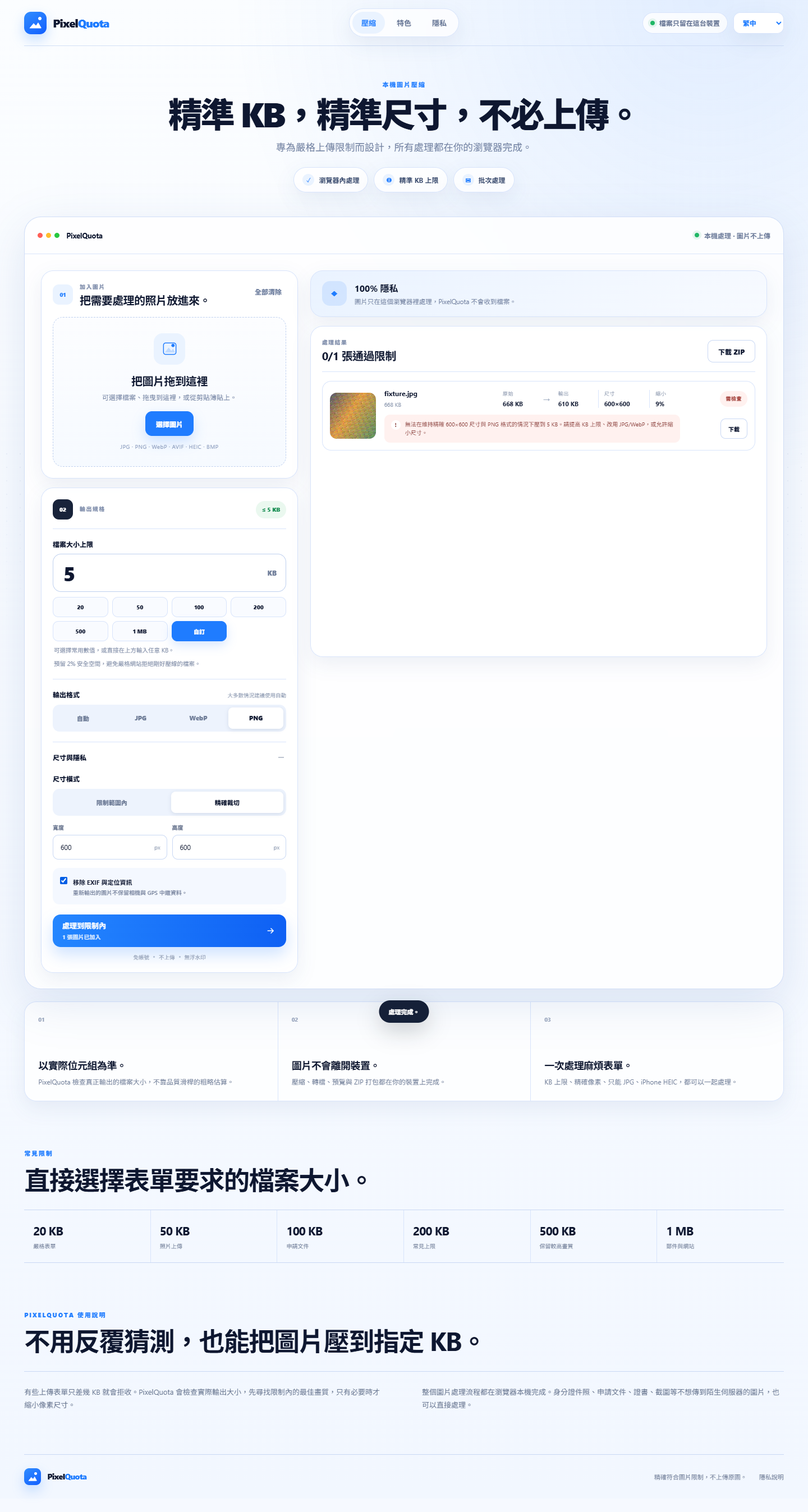
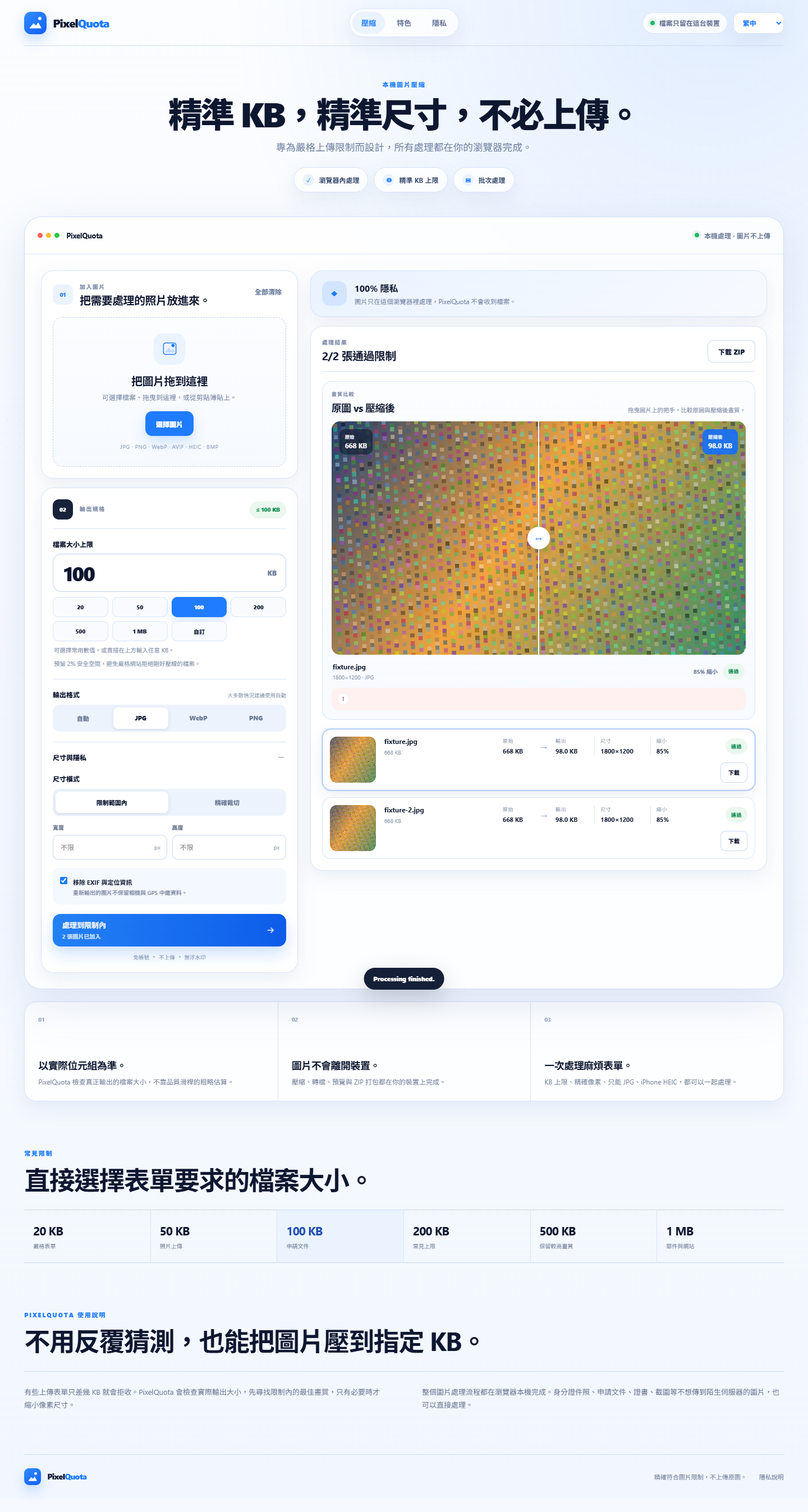
Add before-after comparison preview

diff --git a/src/app.css b/src/app.css
@@ -9,9 +9,12 @@
 .hero-section{text-align:center;padding:clamp(34px,4.3vw,70px) 0 clamp(26px,3vw,46px)}.eyebrow{font-size:11px;line-height:1.2;letter-spacing:.17em;font-weight:900;color:var(--blue);margin:0 0 14px}.hero-section h1{margin:0 auto;font-size:clamp(42px,4.25vw,76px);line-height:1;letter-spacing:-.058em;font-weight:820;white-space:nowrap;max-width:100%;text-wrap:nowrap}.hero-sub{max-width:900px;margin:16px auto 0;color:var(--muted);font-size:clamp(16px,1.22vw,21px);line-height:1.55;text-wrap:pretty}.hero-pills{display:flex;justify-content:center;gap:10px;flex-wrap:wrap;margin-top:22px}.hero-pills>span{display:inline-flex;align-items:center;gap:8px;padding:11px 15px;border:1px solid var(--line);background:rgba(255,255,255,.82);border-radius:999px;box-shadow:var(--shadow-soft);color:#334569}.hero-pills i{width:21px;height:21px;border-radius:50%;display:grid;place-items:center;background:var(--blue-soft);color:var(--blue);font-style:normal;font-size:11px;font-weight:900}.hero-pills b{font-size:12px;font-weight:750}
 .app-window{width:100%;max-width:2200px;margin:0 auto;border:1px solid rgba(207,220,247,.95);background:rgba(255,255,255,.82);border-radius:30px;box-shadow:var(--shadow);overflow:hidden;backdrop-filter:blur(16px)}.window-header{min-height:66px;padding:0 clamp(18px,1.6vw,30px);display:flex;align-items:center;justify-content:space-between;gap:18px;border-bottom:1px solid rgba(216,228,251,.95)}.window-brand{display:flex;align-items:center;gap:12px}.window-brand>strong{font-size:13px;letter-spacing:-.02em}.traffic{display:flex;gap:6px}.traffic i{width:9px;height:9px;border-radius:50%;display:block}.traffic i:nth-child(1){background:#ff5f57}.traffic i:nth-child(2){background:#ffbd2e}.traffic i:nth-child(3){background:#28c840}.window-security{display:flex;align-items:center;gap:9px;color:#6b7a99;font-size:12px;font-weight:700}.workbench{display:grid;grid-template-columns:minmax(390px,.72fr) minmax(0,1.28fr);gap:clamp(20px,1.5vw,32px);padding:clamp(20px,2vw,38px)}.controls-column,.results-panel{min-width:0}.controls-column{display:flex;flex-direction:column;gap:16px}.tool-card,.privacy-card,.empty-results,.results-section{background:rgba(255,255,255,.95);border:1px solid var(--line);border-radius:22px;box-shadow:var(--shadow-soft)}.tool-card{padding:20px}.pane-heading{display:flex;align-items:flex-start;justify-content:space-between;gap:16px}.pane-heading>div,.spec-topline>div{display:flex;align-items:center;gap:12px}.pane-heading p,.spec-topline p,.results-heading p{font-size:10px;font-weight:900;letter-spacing:.14em;color:#8290ad;margin:0 0 4px}.pane-heading h2,.results-heading h3{font-size:20px;letter-spacing:-.03em;margin:0;line-height:1.25;text-wrap:balance}.step-chip{width:36px;height:36px;border-radius:11px;background:var(--blue-soft);display:grid;place-items:center;font-size:10px;font-weight:900;color:var(--blue);flex:none}.step-chip.inverse{background:#18233a;color:#fff}.quiet-button{border:0;background:none;padding:8px;color:#6f7f9f;font-size:12px;font-weight:800;cursor:pointer}.drop-zone{position:relative;margin-top:18px;min-height:245px;border:1.5px dashed #bfd0ef;border-radius:18px;background:linear-gradient(180deg,#fcfdff,#f6faff);display:flex;flex-direction:column;align-items:center;justify-content:center;text-align:center;padding:28px 22px;cursor:pointer;outline:none;transition:.18s}.drop-zone:hover,.drop-zone:focus-visible,.drop-zone.dragging{border-color:#72a0ff;background:#f3f8ff;box-shadow:inset 0 0 0 1px rgba(31,124,255,.16)}.drop-visual{width:56px;height:56px;border-radius:16px;background:var(--blue-soft);display:grid;place-items:center;color:var(--blue);margin-bottom:14px}.drop-visual svg{width:31px;height:31px}.drop-zone>strong{font-size:20px;letter-spacing:-.03em}.drop-zone>span{margin-top:6px;font-size:12px;line-height:1.55;color:var(--muted);max-width:420px;text-wrap:pretty}.drop-zone>small{margin-top:12px;font-size:10px;letter-spacing:.04em;color:#91a1c1}.drop-actions{display:flex;gap:10px;margin-top:16px}.button{height:44px;border-radius:12px;padding:0 18px;display:inline-flex;align-items:center;justify-content:center;border:1px solid var(--line-strong);background:#fff;font-size:12px;font-weight:850;cursor:pointer;transition:.15s}.button:hover{transform:translateY(-1px)}.button.primary{background:var(--blue);border-color:var(--blue);color:#fff;box-shadow:0 10px 22px rgba(31,124,255,.2)}.button.secondary:hover{background:#f7faff}.button:disabled{opacity:.45;cursor:not-allowed;transform:none}.button.compact{height:40px;border-radius:10px}.spec-pane{position:static}.spec-topline{display:flex;align-items:center;justify-content:space-between;gap:12px;padding-bottom:16px;border-bottom:1px solid var(--line)}.gate-badge{height:31px;padding:0 11px;border-radius:999px;background:var(--green-soft);color:var(--green);display:inline-flex;align-items:center;font-size:10px;font-weight:900;white-space:nowrap}.target-control{padding:18px 0}.target-control>label,.section-label>span{display:block;font-size:12px;font-weight:800}.target-input{margin-top:9px;height:68px;border:1px solid #bed0ef;border-radius:15px;background:#fff;display:flex;align-items:center;padding:0 16px}.target-input input{width:100%;min-width:0;border:0;outline:none;background:transparent;font-size:36px;line-height:1;font-weight:800;letter-spacing:-.05em}.target-input span{font-size:12px;font-weight:900;color:#6f7d99}.preset-row{display:grid;grid-template-columns:repeat(4,minmax(0,1fr));gap:7px;margin-top:9px}.preset-row button{min-height:36px;border:1px solid var(--line);border-radius:10px;background:#f9fbff;font-size:10px;font-weight:850;cursor:pointer}.preset-row button.active{background:var(--blue);color:#fff;border-color:var(--blue);box-shadow:0 7px 18px rgba(31,124,255,.18)}.custom-hint,.helper{font-size:10.5px;line-height:1.55;color:#7d8aa5;margin:8px 2px 0;text-wrap:pretty}.spec-section{padding:18px 0;border-top:1px solid var(--line)}.section-label{display:flex;align-items:baseline;justify-content:space-between;gap:10px;margin-bottom:10px}.section-label small{font-size:9.5px;color:#8b98b0}.segment-grid{display:grid;grid-template-columns:repeat(4,minmax(0,1fr));gap:5px;padding:5px;background:#edf3fd;border-radius:12px}.segment-grid.two{grid-template-columns:1fr 1fr}.segment-grid button{min-height:38px;border:0;border-radius:8px;background:transparent;font-size:11px;font-weight:850;color:#6d7b96;cursor:pointer}.segment-grid button.active{background:#fff;color:var(--ink);box-shadow:0 2px 7px rgba(24,47,95,.12)}.advanced-settings{border-top:1px solid var(--line)}.advanced-settings summary{min-height:54px;display:flex;align-items:center;justify-content:space-between;list-style:none;cursor:pointer;font-size:12px;font-weight:850}.advanced-settings summary::-webkit-details-marker{display:none}.advanced-settings summary i{width:18px;height:18px;position:relative}.advanced-settings summary i:before,.advanced-settings summary i:after{content:"";position:absolute;background:#7b88a0;left:50%;top:50%;transform:translate(-50%,-50%)}.advanced-settings summary i:before{width:10px;height:1px}.advanced-settings summary i:after{width:1px;height:10px;transition:opacity .15s}.advanced-settings[open] summary i:after{opacity:0}.advanced-inner{padding:2px 0 18px}.dimension-grid{display:grid;grid-template-columns:1fr 1fr;gap:9px;margin-top:13px}.dimension-grid label>span{display:block;font-size:10px;font-weight:850;margin-bottom:6px;color:#6c7891}.dimension-grid label>div{height:44px;border:1px solid var(--line-strong);border-radius:10px;background:#fff;display:flex;align-items:center;padding:0 11px}.dimension-grid input{width:100%;min-width:0;border:0;outline:none;background:transparent;font-size:12px}.dimension-grid em{font-size:10px;color:#8b98af;font-style:normal}.check-row{margin-top:15px;padding:13px;border-radius:12px;background:#f4f8ff;display:flex;gap:10px;align-items:flex-start;cursor:pointer}.check-row input{margin:3px 0 0;accent-color:var(--blue)}.check-row b{font-size:11px}.check-row small{display:block;font-size:10px;line-height:1.5;color:#74809a;margin-top:3px;font-weight:500}.process-button{width:100%;min-height:58px;border:0;border-radius:14px;background:linear-gradient(90deg,#2486ff,#0e60f4);color:#fff;padding:0 17px;display:flex;align-items:center;justify-content:space-between;gap:12px;cursor:pointer;transition:.15s;box-shadow:0 14px 28px rgba(31,124,255,.22)}.process-button:hover:not(:disabled){filter:brightness(.96);transform:translateY(-1px)}.process-button:disabled{background:#dfe7f4;color:#8795ae;cursor:not-allowed;box-shadow:none}.process-button span{text-align:left}.process-button b{display:block;font-size:13px}.process-button small{display:block;margin-top:3px;font-size:10px;font-weight:650;opacity:.82}.process-button svg{width:20px;flex:none}.process-button.busy{animation:pulse 1.1s ease-in-out infinite}@keyframes pulse{50%{filter:brightness(.92)}}.spec-foot{margin-top:11px;display:flex;align-items:center;justify-content:center;gap:7px;font-size:9.5px;color:#8996ae}.spec-foot span:nth-child(even){width:3px;height:3px;border-radius:50%;background:#b1bfd4}
 .results-panel{display:flex;flex-direction:column;gap:16px}.privacy-card{display:grid;grid-template-columns:auto 1fr;gap:14px;align-items:center;padding:18px 20px;background:linear-gradient(135deg,#eaf3ff,#f7faff)}.privacy-icon{width:44px;height:44px;border-radius:14px;display:grid;place-items:center;background:rgba(31,124,255,.12);color:var(--blue);font-size:16px}.privacy-card h3{font-size:16px;margin:0 0 4px}.privacy-card p{font-size:11.5px;line-height:1.55;color:#6e7d9c;margin:0}.empty-results{min-height:590px;display:flex;flex-direction:column;align-items:center;justify-content:center;text-align:center;padding:34px;background:rgba(255,255,255,.84)}.empty-results[hidden]{display:none}.empty-ring{width:52px;height:52px;border:2px dashed #b9cdef;border-radius:50%;position:relative;margin-bottom:14px}.empty-ring:after{content:"";position:absolute;width:9px;height:9px;border-radius:50%;background:var(--blue);left:50%;top:50%;transform:translate(-50%,-50%);box-shadow:0 0 0 7px var(--blue-soft)}.empty-results h3{margin:0 0 7px;font-size:21px;letter-spacing:-.03em}.empty-results p{margin:0;max-width:360px;color:var(--muted);font-size:12px;line-height:1.6;text-wrap:pretty}.results-section{padding:20px;min-height:590px}.results-heading{display:flex;align-items:flex-end;justify-content:space-between;gap:16px;padding-bottom:16px;border-bottom:1px solid var(--line)}.result-list{display:grid;gap:12px;margin-top:16px}.result-card{min-height:108px;border:1px solid var(--line);border-radius:16px;background:#fff;display:grid;grid-template-columns:82px minmax(140px,.9fr) minmax(290px,1.45fr) 105px;grid-template-rows:auto auto;align-items:center;gap:11px 15px;padding:13px;transition:.15s}.result-card:hover{box-shadow:0 9px 25px rgba(31,63,126,.07)}.thumb{width:82px;height:82px;border-radius:12px;overflow:hidden;background:#eef4ff;display:grid;place-items:center;grid-row:1/3}.thumb img{width:100%;height:100%;object-fit:cover}.thumb.placeholder span{font-size:10px;font-weight:900;color:#7887a5}.thumb.error-thumb span{color:var(--red);font-size:18px}.result-info{min-width:0}.result-info strong{display:block;font-size:12px;white-space:nowrap;overflow:hidden;text-overflow:ellipsis}.result-info span{display:block;font-size:10px;color:#8592aa;margin-top:5px}.size-flow{display:grid;grid-template-columns:auto 18px auto auto auto;gap:10px;align-items:center}.size-flow>div span{display:block;font-size:9px;text-transform:uppercase;letter-spacing:.06em;color:#8e9ab0}.size-flow>div b{display:block;margin-top:4px;font-size:11px;white-space:nowrap}.size-flow>i{font-style:normal;color:#a1aec2}.dimension-note,.saving-note{padding-left:10px;border-left:1px solid var(--line)}.result-status{display:flex;flex-direction:column;align-items:flex-end}.status{height:28px;padding:0 10px;border-radius:999px;display:inline-flex;align-items:center;font-size:9px;font-weight:900;letter-spacing:.06em}.status.pending{background:#eef3fb;color:#6e7d99}.status.pass{background:var(--green-soft);color:var(--green)}.status.fail{background:var(--red-soft);color:#a13d37}.progress{width:82px;height:4px;background:#edf2fa;border-radius:999px;margin-top:8px;overflow:hidden}.progress i{display:block;height:100%;width:0;background:var(--blue);transition:width .2s}.result-reason{grid-column:2/4;grid-row:2;display:flex;align-items:flex-start;gap:8px;padding:10px 12px;border-radius:10px;background:var(--red-soft);color:#863a36;font-size:10px;line-height:1.5}.result-reason strong{flex:none;width:17px;height:17px;border-radius:50%;display:grid;place-items:center;background:#fff;font-size:10px}.result-action{grid-column:4;grid-row:2;justify-self:end}.result-action button{height:36px;padding:0 13px;border:1px solid var(--line-strong);border-radius:9px;background:#fff;font-size:10px;font-weight:850;cursor:pointer}
+.comparison-panel{margin-top:16px;padding:16px;border:1px solid var(--line);border-radius:18px;background:linear-gradient(180deg,#fbfdff,#f7faff)}.comparison-copy{display:flex;align-items:flex-end;justify-content:space-between;gap:18px;margin-bottom:12px}.comparison-copy p{font-size:9px;font-weight:900;letter-spacing:.14em;color:#8290ad;margin:0 0 4px}.comparison-copy h3{font-size:18px;letter-spacing:-.03em;margin:0}.comparison-copy>span{max-width:310px;color:#7b89a6;font-size:10.5px;line-height:1.5;text-align:right}.comparison-stage{--compare-position:50%;position:relative;aspect-ratio:16/9;max-height:430px;overflow:hidden;border-radius:15px;background:linear-gradient(135deg,#eaf2ff,#f8fbff);box-shadow:inset 0 0 0 1px rgba(190,208,239,.85)}.comparison-image{position:absolute;inset:0;width:100%;height:100%;object-fit:cover;display:block;pointer-events:none}.comparison-output-mask{position:absolute;inset:0;clip-path:inset(0 0 0 var(--compare-position));overflow:hidden}.comparison-output-mask .comparison-output{position:absolute;inset:0}.comparison-badge{position:absolute;z-index:4;top:14px;display:flex;flex-direction:column;gap:2px;padding:8px 10px;border-radius:10px;color:#fff;box-shadow:0 8px 22px rgba(20,42,88,.16);pointer-events:none}.comparison-badge span{font-size:8px;text-transform:uppercase;letter-spacing:.08em;font-weight:850;opacity:.86}.comparison-badge strong{font-size:12px}.original-badge{left:14px;background:rgba(22,34,58,.76)}.output-badge{right:14px;background:rgba(20,111,248,.9)}.comparison-divider{position:absolute;z-index:5;left:var(--compare-position);top:0;bottom:0;width:2px;background:#fff;box-shadow:0 0 0 1px rgba(25,66,130,.08);transform:translateX(-1px);pointer-events:none}.comparison-divider span{position:absolute;left:50%;top:50%;transform:translate(-50%,-50%);width:40px;height:40px;border-radius:50%;display:grid;place-items:center;background:#fff;color:var(--blue);font-size:15px;font-weight:900;box-shadow:0 7px 20px rgba(25,68,145,.22)}.comparison-range{position:absolute;z-index:6;inset:0;width:100%;height:100%;margin:0;opacity:0;cursor:ew-resize}.comparison-unavailable{position:absolute;z-index:7;left:50%;top:50%;transform:translate(-50%,-50%);max-width:70%;padding:12px 16px;border-radius:12px;background:rgba(255,255,255,.94);color:#687797;font-size:11px;text-align:center;box-shadow:var(--shadow-soft)}.comparison-meta{display:flex;align-items:center;justify-content:space-between;gap:16px;padding:13px 2px 0}.comparison-meta>div:first-child{min-width:0}.comparison-meta strong{display:block;max-width:520px;overflow:hidden;text-overflow:ellipsis;white-space:nowrap;font-size:12px}.comparison-meta>div:first-child span{display:block;margin-top:4px;color:#8592aa;font-size:10px}.comparison-stats{display:flex;align-items:center;gap:9px;color:#5e6f90;font-size:10px;font-weight:750}.comparison-failure{display:flex;align-items:flex-start;gap:8px;margin-top:12px;padding:11px 12px;border-radius:11px;background:var(--red-soft);color:#863a36;font-size:10px;line-height:1.55}.comparison-failure strong{flex:none;width:18px;height:18px;border-radius:50%;display:grid;place-items:center;background:#fff}.result-card{cursor:pointer}.result-card.selected{border-color:#8ab2ff;box-shadow:0 0 0 2px rgba(31,124,255,.10),0 9px 25px rgba(31,63,126,.08)}.result-card:focus-visible{outline:2px solid var(--blue);outline-offset:2px}
 .ad-slot{max-width:1800px;margin:20px auto 0;border:1px solid var(--line);border-radius:18px;min-height:92px;padding:14px 20px;background:#fff}.ad-slot>span{display:block;font-size:9px;letter-spacing:.14em;color:#9aa7bc;margin-bottom:8px}.sponsor-link{display:flex;min-height:48px;align-items:center;justify-content:center;color:var(--ink);font-weight:800;text-decoration:none}.trust-strip{max-width:1800px;margin:22px auto 0;display:grid;grid-template-columns:repeat(3,1fr);border:1px solid var(--line);border-radius:22px;background:rgba(255,255,255,.82);overflow:hidden;box-shadow:var(--shadow-soft)}.trust-strip article{min-height:176px;padding:24px;display:flex;flex-direction:column;justify-content:space-between}.trust-strip article+article{border-left:1px solid var(--line)}.trust-strip article>b{font-size:10px;color:#96a3ba}.trust-strip h3{font-size:18px;letter-spacing:-.03em;margin:28px 0 8px;text-wrap:balance}.trust-strip p{font-size:12px;line-height:1.65;color:#6d7b96;margin:0;text-wrap:pretty}.limit-section,.seo-copy{max-width:1800px;margin:86px auto 0}.limit-copy{max-width:1120px}.limit-copy h2,.seo-copy h2{font-size:clamp(34px,3.2vw,56px);line-height:1.06;letter-spacing:-.05em;margin:0;text-wrap:balance}.limit-links{display:grid;grid-template-columns:repeat(6,1fr);margin-top:28px;border-top:1px solid var(--line-strong);border-bottom:1px solid var(--line-strong)}.limit-links button{appearance:none;color:var(--ink);text-align:left;background:transparent;border:0;border-right:1px solid var(--line);padding:22px 16px;cursor:pointer;transition:background .15s}.limit-links button:last-child{border-right:0}.limit-links button:hover,.limit-links button:focus-visible{background:#fff;outline:none}.limit-links button.active{background:var(--blue-soft);color:#214fae}.limit-links strong{display:block;font-size:21px;letter-spacing:-.04em}.limit-links span{display:block;font-size:10px;color:#74819a;margin-top:6px}.seo-copy{padding-bottom:76px}.seo-columns{display:grid;grid-template-columns:1fr 1fr;gap:64px;margin-top:28px;padding-top:24px;border-top:1px solid var(--line-strong)}.seo-columns p{font-size:13px;line-height:1.8;color:#65738d;margin:0;text-wrap:pretty}html[lang="zh-TW"] .limit-copy h2,html[lang="zh-TW"] .seo-copy h2{letter-spacing:-.035em;line-height:1.12}footer{max-width:1800px;margin:0 auto 24px;padding:24px 0;border-top:1px solid var(--line-strong);display:flex;align-items:center;gap:22px;color:#74819a;font-size:11px}.footer-brand{margin-right:auto}.footer-brand .brand-name{font-size:14px}footer p{margin:0}footer nav{display:flex;gap:16px}footer a{color:inherit;text-decoration:none}.toast{position:fixed;left:50%;bottom:24px;z-index:100;transform:translate(-50%,18px);opacity:0;pointer-events:none;background:#152038;color:#fff;border-radius:999px;padding:12px 17px;font-size:11px;font-weight:850;box-shadow:0 14px 38px rgba(16,23,32,.2);transition:.2s;max-width:min(90vw,680px);text-align:center}.toast.show{opacity:1;transform:translate(-50%,0)}
 @media(max-width:1320px){.hero-section h1{font-size:clamp(40px,5vw,64px)}.workbench{grid-template-columns:minmax(350px,.84fr) minmax(0,1.16fr)}.local-badge{display:none}.result-card{grid-template-columns:74px minmax(0,1fr) 100px}.thumb{width:74px;height:74px}.size-flow{grid-column:2/4;grid-row:2;grid-template-columns:auto 18px auto auto auto}.result-status{grid-column:3;grid-row:1}.result-reason{grid-column:2/4;grid-row:3}.result-action{grid-column:2/4;grid-row:4;justify-self:stretch}.result-action button{width:100%}}
 @media(max-width:980px){.page-shell{padding:0 18px}.app-bar{grid-template-columns:1fr auto;height:74px}.top-nav{display:none}.header-tools{justify-self:end}.hero-section{padding:38px 0 30px}.hero-section h1{white-space:normal;text-wrap:balance;font-size:clamp(40px,7vw,60px);max-width:760px}.workbench{grid-template-columns:1fr}.empty-results,.results-section{min-height:420px}.trust-strip{grid-template-columns:1fr}.trust-strip article{min-height:142px}.trust-strip article+article{border-left:0;border-top:1px solid var(--line)}.limit-links{grid-template-columns:repeat(3,1fr)}.limit-links button:nth-child(3n){border-right:0}.limit-links button:nth-child(-n+3){border-bottom:1px solid var(--line)}}
+@media(max-width:980px){.comparison-stage{max-height:none}.comparison-copy>span{max-width:260px}}
 @media(max-width:700px){.page-shell{padding:0 14px}.app-bar{height:68px}.brand-name{font-size:17px}.brand-glyph{width:34px;height:34px}.hero-section{padding:32px 0 26px}.hero-section h1{font-size:42px;line-height:1.02}.hero-sub{font-size:15px}.hero-pills{gap:7px}.hero-pills>span{padding:9px 11px}.hero-pills b{font-size:10px}.window-header{min-height:58px}.window-security{display:none}.workbench{padding:14px;gap:14px}.tool-card{padding:16px;border-radius:18px}.pane-heading h2{font-size:18px}.drop-zone{min-height:225px;padding:24px 14px}.drop-zone>strong{font-size:19px}.drop-zone>span{font-size:11px}.button{height:46px}.target-input{height:64px}.target-input input{font-size:34px}.preset-row{grid-template-columns:repeat(2,1fr)}.preset-row button{min-height:40px;font-size:11px}.segment-grid button{min-height:40px;font-size:11px}.process-button{min-height:60px}.privacy-card{padding:16px}.empty-results,.results-section{min-height:360px}.results-section{padding:15px}.result-list{gap:12px}.result-card{grid-template-columns:62px minmax(0,1fr) auto;grid-template-rows:auto auto auto auto;gap:10px;padding:12px}.thumb{width:62px;height:62px;grid-row:1}.result-info{grid-column:2;grid-row:1}.result-status{grid-column:3;grid-row:1}.size-flow{grid-column:1/4;grid-row:2;grid-template-columns:1fr 15px 1fr;gap:7px;border-top:1px solid var(--line);padding-top:11px}.dimension-note,.saving-note{border:0;padding:0}.dimension-note{grid-column:1}.saving-note{grid-column:3}.result-reason{grid-column:1/4;grid-row:3}.result-action{grid-column:1/4;grid-row:4}.results-heading{align-items:flex-start}.limit-section,.seo-copy{margin-top:66px}.limit-links{grid-template-columns:repeat(2,1fr)}.limit-links button{padding:19px 12px}.limit-links button:nth-child(3n){border-right:1px solid var(--line)}.limit-links button:nth-child(2n){border-right:0}.limit-links button:nth-child(-n+4){border-bottom:1px solid var(--line)}.seo-copy{padding-bottom:52px}.seo-columns{grid-template-columns:1fr;gap:16px}.seo-columns p{font-size:12px}footer{margin-bottom:16px;padding:20px 0;flex-wrap:wrap;font-size:10px}.footer-brand{width:100%}footer nav{margin-left:auto}}
+@media(max-width:700px){.comparison-panel{padding:12px}.comparison-copy{align-items:flex-start;flex-direction:column;gap:5px}.comparison-copy>span{text-align:left;max-width:none}.comparison-stage{aspect-ratio:4/3}.comparison-badge{top:9px;padding:7px 8px}.original-badge{left:9px}.output-badge{right:9px}.comparison-divider span{width:36px;height:36px}.comparison-meta{align-items:flex-start;flex-direction:column}.comparison-stats{width:100%;justify-content:space-between}}
 @media(max-width:390px){.hero-section h1{font-size:37px}.tool-card{padding:14px}.pane-heading h2{font-size:17px}.section-label small{display:none}.spec-foot{gap:5px;font-size:9px}}
 @media(prefers-reduced-motion:reduce){*{scroll-behavior:auto!important;animation-duration:.01ms!important;transition-duration:.01ms!important}}

diff --git a/src/main.js b/src/main.js
@@ -7,7 +7,8 @@ const $ = id => document.getElementById(id);
 const state = {
   files:[], results:[], errors:[], previews:[], processKeys:[], resultOptions:[],
   locale:detectLocale(), busy:false, outputFormat:'auto', resizeMode:'limit',
-  customMode:false, pageMode:'default', pagePresetKb:null, lastSkipped:0
+  customMode:false, pageMode:'default', pagePresetKb:null, lastSkipped:0,
+  selectedIndex:null, selectionManual:false, comparePosition:50
 };
 const cfg = window.PIXELQUOTA_CONFIG || {};
 
@@ -112,28 +113,69 @@ function errorReason(error) {
   const message=String(error?.message||error||'');
   return /decode_failed|heic|decoder|image/i.test(message)?t('failDecode'):t('failUnknown');
 }
+function selectedClass(index) { return state.selectedIndex===index?' selected':''; }
+function updateComparisonPosition(value=state.comparePosition) {
+  state.comparePosition=Math.max(0,Math.min(100,Number(value)||0));
+  const stage=$('comparisonStage'); if(stage) stage.style.setProperty('--compare-position',`${state.comparePosition}%`);
+  const range=$('compareRange'); if(range&&Number(range.value)!==state.comparePosition) range.value=String(state.comparePosition);
+}
+function chooseDefaultResult() {
+  if(!state.files.length){state.selectedIndex=null;return;}
+  if(Number.isInteger(state.selectedIndex)&&state.selectedIndex>=0&&state.selectedIndex<state.files.length){
+    if(state.selectionManual||state.results[state.selectedIndex]?.metTarget)return;
+  }
+  const passed=state.results.findIndex(r=>r?.metTarget);
+  if(passed>=0){state.selectedIndex=passed;return;}
+  if(!Number.isInteger(state.selectedIndex)||state.selectedIndex<0||state.selectedIndex>=state.files.length)state.selectedIndex=0;
+}
+function renderComparison() {
+  const panel=$('comparisonPanel'); if(!panel)return;
+  if(!state.files.length){panel.hidden=true;return;}
+  chooseDefaultResult();
+  const index=state.selectedIndex??0; const file=state.files[index]; const result=state.results[index]; const error=state.errors[index];
+  if(!file){panel.hidden=true;return;} panel.hidden=false;
+  const original=$('compareOriginal'),output=$('compareOutput'),mask=$('compareOutputMask'),badge=$('compareOutputBadge'),divider=$('compareDivider'),range=$('compareRange'),failure=$('compareFailure'),unavailable=$('compareUnavailable');
+  unavailable.hidden=true; original.onload=()=>{unavailable.hidden=true;}; original.onerror=()=>{unavailable.hidden=false;}; original.src=state.previews[index]||''; original.alt=`${file.name} ${t('original')}`;
+  $('compareFilename').textContent=file.name; $('compareOriginalSize').textContent=formatBytes(file.size);
+  failure.hidden=true; $('compareFailureText').textContent='';
+  const showSlider=!!result?.metTarget;
+  mask.hidden=!showSlider; badge.hidden=!showSlider; divider.hidden=!showSlider; range.hidden=!showSlider;
+  if(showSlider){
+    if(!result.previewUrl)result.previewUrl=safeUrl(result.blob); output.src=result.previewUrl; output.alt=`${file.name} ${t('compressed')}`;
+    $('compareOutputSize').textContent=formatBytes(result.blob.size); const saved=Math.max(0,Math.round((1-result.blob.size/file.size)*100));
+    $('compareDimensions').textContent=`${result.outputWidth}×${result.outputHeight} · ${formatName(result.outputType)}`; $('compareSaving').textContent=`${saved}% ${t('smaller')}`;
+    $('compareStatus').className='status pass'; $('compareStatus').textContent=t('pass'); updateComparisonPosition();
+  }else{
+    $('compareOutputSize').textContent='—'; $('compareDimensions').textContent=result?`${result.outputWidth}×${result.outputHeight} · ${formatName(result.outputType)}`:formatBytes(file.size); $('compareSaving').textContent=result?t('targetMissed'):t('waiting');
+    $('compareStatus').className=`status ${result||error?'fail':'pending'}`; $('compareStatus').textContent=result||error?t('failed'):t('waiting');
+    if(result||error){failure.hidden=false;$('compareFailureText').textContent=result?failureReason(result,state.resultOptions[index]):errorReason(error);}
+  }
+  document.querySelectorAll('.result-card').forEach(card=>card.classList.toggle('selected',Number(card.dataset.resultIndex)===index));
+}
+function selectResult(index,manual=true){if(!Number.isInteger(index)||index<0||index>=state.files.length)return;state.selectedIndex=index;if(manual)state.selectionManual=true;state.comparePosition=50;renderComparison();}
+
 function resultCardHtml(file,index,result) {
   if (!result.previewUrl) result.previewUrl=safeUrl(result.blob);
   const saved=Math.max(0,Math.round((1-result.blob.size/file.size)*100));
   const reason=result.metTarget?'':failureReason(result,state.resultOptions[index]);
-  return `<article class="result-card done${result.metTarget?'':' over-limit'}" data-result-index="${index}"><div class="thumb"><img src="${result.previewUrl}" alt="" /></div><div class="result-info"><strong title="${escapeHtml(file.name)}">${escapeHtml(file.name)}</strong><span>${formatBytes(file.size)}</span></div><div class="size-flow"><div><span>${t('original')}</span><b>${formatBytes(file.size)}</b></div><i>→</i><div><span>${t('output')}</span><b>${formatBytes(result.blob.size)}</b></div><div class="dimension-note"><span>${t('dimensions')}</span><b>${result.outputWidth}×${result.outputHeight}</b></div><div class="saving-note"><span>${t('saved')}</span><b>${saved}%</b></div></div><div class="result-status"><span class="status ${result.metTarget?'pass':'fail'}">${result.metTarget?t('pass'):t('failed')}</span></div>${reason?`<div class="result-reason"><strong>!</strong><span>${escapeHtml(reason)}</span></div>`:''}<div class="result-action"><button type="button" data-download-index="${index}">${t('download')}</button></div></article>`;
+  return `<article class="result-card done${result.metTarget?'':' over-limit'}${selectedClass(index)}" data-result-index="${index}" data-select-result="${index}" tabindex="0"><div class="thumb"><img src="${result.previewUrl}" alt="" /></div><div class="result-info"><strong title="${escapeHtml(file.name)}">${escapeHtml(file.name)}</strong><span>${formatBytes(file.size)}</span></div><div class="size-flow"><div><span>${t('original')}</span><b>${formatBytes(file.size)}</b></div><i>→</i><div><span>${t('output')}</span><b>${formatBytes(result.blob.size)}</b></div><div class="dimension-note"><span>${t('dimensions')}</span><b>${result.outputWidth}×${result.outputHeight}</b></div><div class="saving-note"><span>${t('saved')}</span><b>${saved}%</b></div></div><div class="result-status"><span class="status ${result.metTarget?'pass':'fail'}">${result.metTarget?t('pass'):t('failed')}</span></div>${reason?`<div class="result-reason"><strong>!</strong><span>${escapeHtml(reason)}</span></div>`:''}<div class="result-action"><button type="button" data-download-index="${index}">${t('download')}</button></div></article>`;
 }
 function errorCardHtml(file,index,error) {
-  return `<article class="result-card failed" data-result-index="${index}"><div class="thumb placeholder error-thumb"><span>!</span></div><div class="result-info"><strong title="${escapeHtml(file.name)}">${escapeHtml(file.name)}</strong><span>${formatBytes(file.size)}</span></div><div class="size-flow"><div><span>${t('original')}</span><b>${formatBytes(file.size)}</b></div><i>→</i><div><span>${t('output')}</span><b>—</b></div></div><div class="result-status"><span class="status fail">${t('failed')}</span></div><div class="result-reason"><strong>!</strong><span>${escapeHtml(errorReason(error))}</span></div></article>`;
+  return `<article class="result-card failed${selectedClass(index)}" data-result-index="${index}" data-select-result="${index}" tabindex="0"><div class="thumb placeholder error-thumb"><span>!</span></div><div class="result-info"><strong title="${escapeHtml(file.name)}">${escapeHtml(file.name)}</strong><span>${formatBytes(file.size)}</span></div><div class="size-flow"><div><span>${t('original')}</span><b>${formatBytes(file.size)}</b></div><i>→</i><div><span>${t('output')}</span><b>—</b></div></div><div class="result-status"><span class="status fail">${t('failed')}</span></div><div class="result-reason"><strong>!</strong><span>${escapeHtml(errorReason(error))}</span></div></article>`;
 }
 function queuedCardHtml(file,index) {
-  return `<article class="result-card queued" data-result-index="${index}">${queueThumb(file,index)}<div class="result-info"><strong title="${escapeHtml(file.name)}">${escapeHtml(file.name)}</strong><span>${formatBytes(file.size)}</span></div><div class="size-flow"><div><span>${t('original')}</span><b>${formatBytes(file.size)}</b></div><i>→</i><div><span>${t('output')}</span><b>${t('waiting')}</b></div></div><div class="result-status"><span class="status pending">${t('waiting')}</span><div class="progress"><i></i></div></div><div class="result-action"><button type="button" disabled>${t('download')}</button></div></article>`;
+  return `<article class="result-card queued${selectedClass(index)}" data-result-index="${index}" data-select-result="${index}" tabindex="0">${queueThumb(file,index)}<div class="result-info"><strong title="${escapeHtml(file.name)}">${escapeHtml(file.name)}</strong><span>${formatBytes(file.size)}</span></div><div class="size-flow"><div><span>${t('original')}</span><b>${formatBytes(file.size)}</b></div><i>→</i><div><span>${t('output')}</span><b>${t('waiting')}</b></div></div><div class="result-status"><span class="status pending">${t('waiting')}</span><div class="progress"><i></i></div></div><div class="result-action"><button type="button" disabled>${t('download')}</button></div></article>`;
 }
 function renderCard(index) {
   const existing=document.querySelector(`[data-result-index="${index}"]`); if(!existing)return;
   const html=state.results[index]?resultCardHtml(state.files[index],index,state.results[index]):state.errors[index]?errorCardHtml(state.files[index],index,state.errors[index]):queuedCardHtml(state.files[index],index);
-  existing.outerHTML=html;
+  existing.outerHTML=html; renderComparison();
 }
 function renderCards() {
   if(!state.files.length){$('resultsSection').hidden=true;$('emptyResults').hidden=false;$('resultList').innerHTML='';return;}
   $('emptyResults').hidden=true;$('resultsSection').hidden=false;
-  $('resultList').innerHTML=state.files.map((file,i)=>state.results[i]?resultCardHtml(file,i,state.results[i]):state.errors[i]?errorCardHtml(file,i,state.errors[i]):queuedCardHtml(file,i)).join('');
-  $('downloadAllBtn').disabled=!state.results.some(Boolean); updateResultsSummary();
+  chooseDefaultResult(); $('resultList').innerHTML=state.files.map((file,i)=>state.results[i]?resultCardHtml(file,i,state.results[i]):state.errors[i]?errorCardHtml(file,i,state.errors[i]):queuedCardHtml(file,i)).join('');
+  $('downloadAllBtn').disabled=!state.results.some(Boolean); updateResultsSummary(); renderComparison();
 }
 function updateResultsSummary() {
   if(!state.files.length)return;
@@ -150,12 +192,12 @@ function addFiles(files) {
   if(!incoming.length)return;
   const room=30-state.files.length; if(room<=0)return toast(t('tooMany')); if(incoming.length>room)toast(t('tooMany'));
   incoming.slice(0,room).forEach(file=>{state.files.push(file);state.previews.push(URL.createObjectURL(file));state.results.push(null);state.errors.push(null);state.processKeys.push(null);state.resultOptions.push(null);});
-  state.lastSkipped=0; renderCards(); updateQueue();
+  if(state.selectedIndex===null)state.selectedIndex=0; state.lastSkipped=0; renderCards(); updateQueue();
 }
 function resetAll() {
   state.results.forEach(r=>r?.previewUrl&&URL.revokeObjectURL(r.previewUrl)); state.previews.forEach(url=>URL.revokeObjectURL(url));
-  state.files=[];state.results=[];state.errors=[];state.previews=[];state.processKeys=[];state.resultOptions=[];state.busy=false;state.lastSkipped=0;
-  $('fileInput').value='';$('resultsSection').hidden=true;$('emptyResults').hidden=false;$('resultList').innerHTML='';updateQueue();
+  state.files=[];state.results=[];state.errors=[];state.previews=[];state.processKeys=[];state.resultOptions=[];state.busy=false;state.lastSkipped=0;state.selectedIndex=null;state.selectionManual=false;state.comparePosition=50;
+  $('fileInput').value='';$('resultsSection').hidden=true;$('emptyResults').hidden=false;$('comparisonPanel').hidden=true;$('resultList').innerHTML='';updateQueue();
 }
 function prepareCard(index) {
   const old=state.results[index]; if(old?.previewUrl)URL.revokeObjectURL(old.previewUrl);
@@ -180,7 +222,7 @@ async function processAll() {
     prepareCard(i);state.resultOptions[i]={...opts};
     try{
       const result=await compressImage(state.files[i],opts,p=>updateCardProgress(i,p));
-      state.results[i]=result;state.errors[i]=null;state.processKeys[i]=key;renderCard(i);
+      state.results[i]=result;state.errors[i]=null;state.processKeys[i]=key;if(result.metTarget&&!state.selectionManual&&!state.results[state.selectedIndex]?.metTarget)state.selectedIndex=i;renderCard(i);
     }catch(error){
       console.warn('PixelQuota decode/compress failure:',state.files[i]?.name,error);
       state.results[i]=null;state.errors[i]={message:String(error?.message||error)};state.processKeys[i]=key;renderCard(i);
@@ -212,8 +254,10 @@ function bind(){
   $('formatButtons').onclick=e=>{const b=e.target.closest('[data-format]');if(b)setFormat(b.dataset.format);};
   $('resizeButtons').onclick=e=>{const b=e.target.closest('[data-resize]');if(b)setResize(b.dataset.resize);};
   $('processBtn').onclick=processAll;$('clearBtn').onclick=resetAll;$('downloadAllBtn').onclick=downloadAll;
-  $('resultList').onclick=e=>{const b=e.target.closest('[data-download-index]');if(!b)return;const r=state.results[Number(b.dataset.downloadIndex)];if(r)downloadBlob(r.blob,r.outputName);};
+  $('compareRange').oninput=e=>updateComparisonPosition(e.target.value);
+  $('resultList').onclick=e=>{const b=e.target.closest('[data-download-index]');if(b){e.stopPropagation();const r=state.results[Number(b.dataset.downloadIndex)];if(r)downloadBlob(r.blob,r.outputName);return;}const card=e.target.closest('[data-select-result]');if(card)selectResult(Number(card.dataset.selectResult));};
+  $('resultList').onkeydown=e=>{if((e.key==='Enter'||e.key===' ')&&e.target.closest('[data-select-result]')&&!e.target.closest('button')){e.preventDefault();selectResult(Number(e.target.closest('[data-select-result]').dataset.selectResult));}};
   $('languageSelect').onchange=e=>applyLocale(e.target.value);
 }
-function init(){initPageMode();bind();applyLocale(state.locale);setFormat(state.outputFormat);setResize(state.resizeMode);initMonetization();window.PixelQuotaTest={addFiles,processAll,state,compressImage,setPreset,setCustom,setFormat,setResize,settingsKey,inputOptions};}
+function init(){initPageMode();bind();applyLocale(state.locale);setFormat(state.outputFormat);setResize(state.resizeMode);initMonetization();window.PixelQuotaTest={addFiles,processAll,state,compressImage,setPreset,setCustom,setFormat,setResize,settingsKey,inputOptions,selectResult,renderComparison,updateComparisonPosition};}
 init();

diff --git a/index.html b/index.html
@@ -77,7 +77,24 @@
           <section class="results-panel" aria-label="Results">
             <div class="privacy-card" id="privacy"><span class="privacy-icon">◆</span><div><h3 data-i18n="privateTitle">100% private</h3><p data-i18n="privacyLine">Images are processed in this browser. PixelQuota never receives the file.</p></div></div>
             <div id="emptyResults" class="empty-results"><span class="empty-ring"></span><h3 data-i18n="emptyResultsTitle">No images yet</h3><p data-i18n="emptyResultsBody">Add one or more images to see the processed files here.</p></div>
-            <section id="resultsSection" class="results-section" hidden aria-live="polite"><div class="results-heading"><div><p data-i18n="results">RESULTS</p><h3 id="resultsSummary" data-i18n="queuedTitle">Queued for processing.</h3></div><button id="downloadAllBtn" class="button secondary compact" type="button" disabled data-i18n="downloadAll">Download ZIP</button></div><div id="resultList" class="result-list"></div></section>
+            <section id="resultsSection" class="results-section" hidden aria-live="polite">
+              <div class="results-heading"><div><p data-i18n="results">RESULTS</p><h3 id="resultsSummary" data-i18n="queuedTitle">Queued for processing.</h3></div><button id="downloadAllBtn" class="button secondary compact" type="button" disabled data-i18n="downloadAll">Download ZIP</button></div>
+              <section id="comparisonPanel" class="comparison-panel" hidden aria-labelledby="comparisonTitle">
+                <div class="comparison-copy"><div><p data-i18n="compareLabel">QUALITY PREVIEW</p><h3 id="comparisonTitle" data-i18n="compareTitle">Original vs compressed</h3></div><span data-i18n="compareHint">Drag across the image to compare quality.</span></div>
+                <div id="comparisonStage" class="comparison-stage" style="--compare-position:50%">
+                  <img id="compareOriginal" class="comparison-image comparison-original" alt="" />
+                  <div id="compareOutputMask" class="comparison-output-mask"><img id="compareOutput" class="comparison-image comparison-output" alt="" /></div>
+                  <div class="comparison-badge original-badge"><span data-i18n="original">Original</span><strong id="compareOriginalSize">—</strong></div>
+                  <div id="compareOutputBadge" class="comparison-badge output-badge"><span data-i18n="compressed">Compressed</span><strong id="compareOutputSize">—</strong></div>
+                  <div id="compareDivider" class="comparison-divider"><span aria-hidden="true">↔</span></div>
+                  <input id="compareRange" class="comparison-range" type="range" min="0" max="100" value="50" aria-label="Original and compressed comparison" />
+                  <div id="compareUnavailable" class="comparison-unavailable" hidden data-i18n="previewUnavailable">Preview unavailable for this file format.</div>
+                </div>
+                <div class="comparison-meta"><div><strong id="compareFilename">—</strong><span id="compareDimensions">—</span></div><div class="comparison-stats"><span id="compareSaving">—</span><span id="compareStatus" class="status pending">—</span></div></div>
+                <div id="compareFailure" class="comparison-failure" hidden><strong>!</strong><span id="compareFailureText"></span></div>
+              </section>
+              <div id="resultList" class="result-list"></div>
+            </section>
           </section>
         </div>
       </section>

diff --git a/src/i18n.js b/src/i18n.js
@@ -9,6 +9,7 @@ export const strings = {
     dropFiles:'Drop images here', dropHint:'Choose files, drag them here, or paste from the clipboard.', chooseButton:'Choose images',
     privacyLine:'Images are processed in this browser. PixelQuota never receives the file.',
     results:'RESULTS', queuedTitle:'Queued for processing.', downloadAll:'Download ZIP', outputSpec:'OUTPUT SPEC',
+    compareLabel:'QUALITY PREVIEW', compareTitle:'Original vs compressed', compareHint:'Drag across the image to compare quality.', compressed:'Compressed', smaller:'smaller', targetMissed:'Target not reached', previewUnavailable:'Preview unavailable for this file format.',
     maxFileSize:'Maximum file size', customSize:'Custom', customHint:'Choose a preset or type any size above.',
     safeMargin:'A 2% safety margin keeps strict upload forms from rejecting a borderline file.',
     format:'Format', formatHint:'Auto is best for most people', autoFormat:'Auto', advanced:'Dimensions & privacy',
@@ -52,6 +53,7 @@ export const strings = {
     dropFiles:'把圖片拖到這裡', dropHint:'可選擇檔案、拖曳到這裡，或從剪貼簿貼上。', chooseButton:'選擇圖片',
     privacyLine:'圖片只在這個瀏覽器裡處理，PixelQuota 不會收到檔案。',
     results:'處理結果', queuedTitle:'已加入，等待處理。', downloadAll:'下載 ZIP', outputSpec:'輸出規格',
+    compareLabel:'畫質比較', compareTitle:'原圖 vs 壓縮後', compareHint:'拖曳圖片上的把手，比較原圖與壓縮後畫質。', compressed:'壓縮後', smaller:'縮小', targetMissed:'未達目標', previewUnavailable:'此檔案格式無法顯示原圖預覽。',
     maxFileSize:'檔案大小上限', customSize:'自訂', customHint:'可選擇常用數值，或直接在上方輸入任意 KB。',
     safeMargin:'預留 2% 安全空間，避免嚴格網站拒絕剛好壓線的檔案。',
     format:'輸出格式', formatHint:'大多數情況建議使用自動', autoFormat:'自動', advanced:'尺寸與隱私',

diff --git a/README.md b/README.md
@@ -34,6 +34,7 @@ It checks the **real encoded byte size**, searches for the highest quality that 
 | Clear failure reasons | Explains why a file cannot meet the requested KB, format, and dimensions together. |
 | Private by design | Image bytes stay in the browser. PixelQuota has no image-upload endpoint. |
 | Batch workflow | Process up to 30 images and download the results as a ZIP. |
+| Before / after comparison | Drag across a large Original / Compressed preview to inspect quality, and click batch rows to switch the selected image. |
 | Format conversion | JPG, PNG, WebP, AVIF, HEIC/HEIF, and BMP input; JPG, PNG, WebP, or automatic output. |
 | Metadata removal | Re-encoded images can drop EXIF and location metadata. |
 | Safe repeat processing | Clicking Process again with unchanged settings skips finished files; changing settings reprocesses from the original. |
@@ -75,7 +76,7 @@ The build creates two useful entry points:
 npm run test:e2e
 ```
 
-The test opens the real built app in Chrome/Chromium and verifies localization, common/custom KB controls, repeated-processing safety, changed-setting reprocessing, localized failure reasons, download behavior, responsive layouts, and typography in both English and Traditional Chinese.
+The test opens the real built app in Chrome/Chromium and verifies localization, common/custom KB controls, the draggable before/after comparison, batch preview switching, repeated-processing safety, changed-setting reprocessing, localized failure reasons, download behavior, responsive layouts, and typography in both English and Traditional Chinese.
 
 If Chrome is not in a standard location, set `CHROME_PATH` first.
 

diff --git a/README.zh-TW.md b/README.zh-TW.md
@@ -34,6 +34,7 @@
 | 明確錯誤原因 | 無法同時符合 KB、格式、尺寸時，會說明是哪個條件造成限制。 |
 | 本機隱私處理 | 圖片位元組留在瀏覽器內，PixelQuota 沒有圖片上傳 API。 |
 | 批次處理 | 單次最多 30 張圖片，完成後可一次下載 ZIP。 |
+| 原圖 / 壓縮後比較 | 以大型可拖曳預覽直接比較畫質；批次處理時點選列表即可切換目前預覽圖片。 |
 | 格式轉換 | 輸入支援 JPG、PNG、WebP、AVIF、HEIC/HEIF、BMP；輸出可選 JPG、PNG、WebP 或自動。 |
 | 移除中繼資料 | 重新輸出的圖片可移除 EXIF 與定位資訊。 |
 | 防止重複亂按 | 相同設定再次按處理會自動略過；只有設定變更才會從原始圖片重新處理。 |
@@ -75,7 +76,7 @@ Build 後會產生兩種入口：
 npm run test:e2e
 ```
 
-測試會直接開啟正式 Build，驗證中英文切換、常用與自訂 KB、重複處理保護、設定變更後重新處理、在地化錯誤原因、下載、響應式版面，以及中英文斷行與排版。
+測試會直接開啟正式 Build，驗證中英文切換、常用與自訂 KB、可拖曳原圖／壓縮後比較、批次預覽切換、重複處理保護、設定變更後重新處理、在地化錯誤原因、下載、響應式版面，以及中英文斷行與排版。
 
 如果 Chrome 不在常見安裝位置，可先設定 `CHROME_PATH`。
 

diff --git a/CHANGELOG.md b/CHANGELOG.md
@@ -1,5 +1,13 @@
 # Changelog
 
+## 1.3.1 — 2026-09-17
+
+- Added a draggable Original / Compressed comparison as the primary result preview.
+- Added result-row selection so batch files can be switched into the large comparison preview.
+- Defaulted the comparison to the first result that successfully meets the target.
+- Failed results now show the original preview with the localized failure reason instead of a misleading comparison slider.
+- Added touch, mouse, and keyboard-friendly comparison controls while preserving existing compression and batch behavior.
+
 ## 1.3.0 — 2026-09-17
 
 - Rebuilt the desktop interface around a short centered hero and a full-width workspace.
